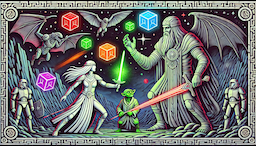
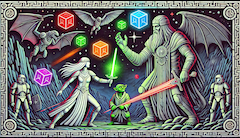
feat: adjust UI text positions and load title image in opening screen

diff --git a/pyxelhg/main.py b/pyxelhg/main.py
@@ -506,6 +506,9 @@ class SameGame:
         # ゲームステート
         self.state = GameState.OPENING
 
+        # タイトル画像読み込み
+        self.load_image("assets/title_image.png")
+        
         # フォント読み込み
         try:
             self.font_small = self.load_font("assets/fonts/k8x12.bdf")
@@ -525,9 +528,6 @@ class SameGame:
         self.bgm_files = {
             GameState.OPENING: "assets/game_music/opening.json",
             GameState.DIFFICULTY_SELECTION: "assets/game_music/selection.json",
-#            GameState.GAME_START: "assets/game_music/gameplay_start.json",
-#            GameState.GAME_MID: "assets/game_music/gameplay_mid.json",
-#            GameState.GAME_END: "assets/game_music/gameplay_end.json",
             GameState.TIME_UP: "assets/game_music/time_up.json",
             GameState.NO_MOVES: "assets/game_music/no_moves.json",
             GameState.GAME_CLEARED: "assets/game_music/cleared.json",
@@ -631,6 +631,20 @@ class SameGame:
 
         # ゲームループ開始
         pyxel.run(self.update, self.draw)
+
+    def load_image(self, relative_path, image_bank=0, x=0, y=0):
+        """
+        Pyxelのimage bankに画像を絶対パスから読み込む。
+        
+        :param relative_path: 画像の相対パス
+        :param image_bank: Pyxelのimage bank (0〜2)
+        :param x: 読み込むX座標
+        :param y: 読み込むY座標
+        """
+        absolute_path = os.path.join(self.base_path, relative_path)
+        if not os.path.exists(absolute_path):
+            raise FileNotFoundError(f"Image file not found: {absolute_path}")
+        pyxel.image(image_bank).load(x, y, absolute_path)
 
     def load_font(self, relative_path):
         """BDFフォントを絶対パスで読み込む"""
@@ -806,8 +820,10 @@ class SameGame:
         """オープニング画面用の言語切り替えボタンを作成"""
         button_width = 20
         button_height = 20
-        x = WINDOW_WIDTH - 30 # 画面右に配置
-        y =  10 # 画面上部に配置
+#        x = WINDOW_WIDTH - 30 # 画面右に配置
+#        y =  10 # 画面上部に配置
+        x = WINDOW_WIDTH - 28 # 画面右に配置
+        y =  7 # 画面上部に配置
         self.language_button = Button(x, y, button_width, button_height, "EN")
 
     def create_difficulty_buttons(self):
@@ -1591,6 +1607,10 @@ class SameGame:
         return shake_x, shake_y
 
     def draw_opening(self):
+        # タイトル画像の描画
+#        pyxel.blt(8, 80, 0, 0, 0, 256, 146)  # 読み込んだ画像を描画
+        pyxel.blt(8, 34, 0, 0, 0, 256, 146)  # 読み込んだ画像を描画
+        
         """開始画面のテキストを描画"""
         self.draw_translated_text("titles_game_title", self.current_language)
 
